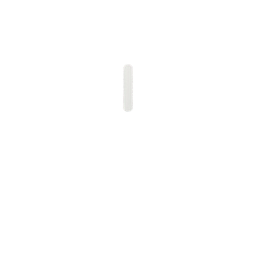
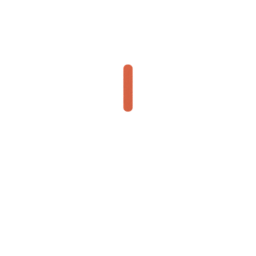
0012, 0013: orange pointers and paddle rims; GAIN dims under AUTO
The knobs' pointers and the toggle paddles' rims take the title stripe's
orange. GAIN dims while auto gain is on, mirroring DETECT and DECAY.

Changed region(s): [[0.4688, 0.25, 0.5312, 0.4375]]

diff --git a/art/beverley/blender/controls.py b/art/beverley/blender/controls.py
@@ -2,11 +2,12 @@
 `crates/beverley/beverley.svg`, in the style of a 1990s rack effects unit:
 
 - the knob: black moulded plastic, a fluted grip on a thin flange, a grey
-  cap with a white line. A cycled skin: `knob_pointer.png` (the line
+  cap with a line in the title stripe's orange. A cycled skin: `knob_pointer.png` (the line
   alone, at 12 o'clock), then `knob_body_N.png`, the rest turned evenly
   across one flute period (`FLUTE_PERIOD`);
 - the toggle: a flat grey plastic bat, fanning out from its pivot and
-  bevelled, in a black plastic boss. `toggle2_{0,1}.png` down and up;
+  bevelled, its rim painted the title stripe's orange, in a black
+  plastic boss. `toggle2_{0,1}.png` down and up;
   `toggle3_{0,1,2}.png` down, middle (seen end-on) and up;
 - the button: a grey key in a black bezel, with a red LED in the key.
   `button_0.png` off, `button_1.png` lit.
@@ -49,6 +50,8 @@ TOGGLE_SPAN = 2.6
 BUTTON_SPAN = 1.3
 # How far the bat leans from upright, either way.
 TOGGLE_TILT = 32.0
+# The title stripe's orange, #d9572b (faceplate.py's ACCENT), linear.
+ACCENT = (0.693, 0.0953, 0.0242)
 # An LED's red, linear.
 LED_RED = (1.0, 0.03, 0.01)
 
@@ -104,7 +107,7 @@ def build_knob():
     """The knob, 2 units across; the pointer last."""
     black = plastic("knob plastic", 0.018)
     cap = plastic("cap plastic", 0.09, roughness=0.35)
-    ink = studio.material("white ink", (0.85, 0.85, 0.82), roughness=0.5)
+    ink = studio.material("orange ink", ACCENT, roughness=0.5)
     parts = [
         studio.prism("flange", studio.circle(1.0), 0.0, 0.09, black, bevel=0.03),
         studio.prism("grip", studio.fluted(0.88, 0.055, FLUTES), 0.06, 0.6, black,
@@ -156,13 +159,47 @@ def fan(base, tip, length, round_tip=0.08, n=8):
     return pts
 
 
+def rimmed(m, rim_color):
+    """Paint the rim of a flat part made by `studio.prism`: its sides and
+    bevels take `rim_color`, its two broad faces (normal along the
+    object's Z) keep their own."""
+    nodes, links = m.node_tree.nodes, m.node_tree.links
+    bsdf = nodes["Principled BSDF"]
+    geometry = nodes.new("ShaderNodeNewGeometry")
+    to_object = nodes.new("ShaderNodeVectorTransform")
+    to_object.vector_type = "NORMAL"
+    to_object.convert_from = "WORLD"
+    to_object.convert_to = "OBJECT"
+    xyz = nodes.new("ShaderNodeSeparateXYZ")
+    facing = nodes.new("ShaderNodeMath")
+    facing.operation = "ABSOLUTE"
+    # Fully rim below 0.9 of the face's normal, fully face above 0.97: the
+    # paint's edge sits on the bevel, just short of the face.
+    edge = nodes.new("ShaderNodeMapRange")
+    edge.inputs["From Min"].default_value = 0.9
+    edge.inputs["From Max"].default_value = 0.97
+    edge.inputs["To Min"].default_value = 1.0
+    edge.inputs["To Max"].default_value = 0.0
+    mix = nodes.new("ShaderNodeMix")
+    mix.data_type = "RGBA"
+    mix.inputs["A"].default_value = bsdf.inputs["Base Color"].default_value[:]
+    mix.inputs["B"].default_value = (*rim_color, 1.0)
+    links.new(geometry.outputs["Normal"], to_object.inputs["Vector"])
+    links.new(to_object.outputs["Vector"], xyz.inputs["Vector"])
+    links.new(xyz.outputs["Z"], facing.inputs[0])
+    links.new(facing.outputs["Value"], edge.inputs["Value"])
+    links.new(edge.outputs["Result"], mix.inputs["Factor"])
+    links.new(mix.outputs["Result"], bsdf.inputs["Base Color"])
+    return m
+
+
 def build_toggle():
     """A plastic toggle: a rounded boss with a dark throat, and a flat bat
     that fans out from its pivot, wide across the panel and thin along
     its throw, its edges bevelled. Returns the parts and the pivot, which
     tilts the bat about X."""
     boss_m = plastic("toggle boss", 0.014, roughness=0.36)
-    bat_m = plastic("toggle bat", 0.24, roughness=0.36)
+    bat_m = rimmed(plastic("toggle bat", 0.24, roughness=0.36), ACCENT)
     throat_m = studio.material("throat", (0.004, 0.004, 0.005), roughness=0.8, specular=0.1)
     boss = studio.prism("boss", studio.rounded_rect(0.95, 1.25, 0.22), 0.0, 0.16, boss_m,
                         bevel=0.05, segments=4)

diff --git a/crates/beverley/src/lib.rs b/crates/beverley/src/lib.rs
@@ -89,10 +89,15 @@ fn auto_off(model: &Model) -> bool {
     model.get(AUTO_GAIN) < 0.5
 }
 
+fn auto_on(model: &Model) -> bool {
+    !auto_off(model)
+}
+
 /// The editor's long-lived state, bound to the engine through `link`.
 pub fn state(link: Box<dyn EngineLink>) -> EditorState {
     let controls = faceplate::Controls::<Box<dyn Binding>> {
-        gain: Box::new(ParamKnob::new(GAIN)),
+        // Fixed gain does nothing while auto gain sets it.
+        gain: Box::new(ParamKnob::new(GAIN).dimmed_when(&[AUTO_GAIN], auto_on)),
         auto_gain: Box::new(ParamToggle::new(AUTO_GAIN)),
         // Auto gain's detector and its DECAY do nothing with AUTO off.
         detect: Box::new(ParamToggle::new(DETECT).dimmed_when(&[AUTO_GAIN], auto_off)),

diff --git a/crates/beverley/tests/editor.rs b/crates/beverley/tests/editor.rs
@@ -77,9 +77,9 @@ fn hovering_shows_values_in_their_units() {
 }
 
 #[test]
-fn detect_and_decay_light_up_with_auto_gain() {
+fn auto_gain_lights_its_controls_and_dims_gain() {
     // At rest AUTO is off, so DETECT and DECAY are dimmed (initial_1x);
-    // switched on, they are drawn at full strength.
+    // switched on, they are drawn at full strength and GAIN is dimmed.
     let mut h = Harness::new(beverley::editor, 1.0);
     h.click(ids::AUTO_GAIN);
     assert_snapshot!(h, "auto_on_1x");

diff --git a/tickets/open/0017-murmuration-clarity.md b/tickets/open/0017-murmuration-clarity.md
@@ -9,27 +9,50 @@ depends: ["0015"]
 
 ## Summary
 
-Voices steer away from delays whose dry + voice comb notches, at
-(2k + 1) / 2d Hz, would land on strong peaks (ADR 0002, point 7). The
-steering is a force in the flock, so DETUNE's speed limit also limits
-how fast a voice moves under it.
+Voices are pushed away from delays whose dry + voice comb notches, at
+(2k + 1) / 2d Hz, would land near strong peaks (ADR 0002, point 7). The
+push is a force in the flock, so DETUNE's speed limit also limits how fast
+a voice moves under it.
+
+Three rules from the ADR apply:
+- the term only repels, and only at short range, so a voice never parks
+- each peak's push scales with its strength
+- the term is gated by how sparse the band is, so it fades out on dense
+  polyphony and noise
 
 ## Acceptance criteria
 
-- [ ] A notch-cost term per voice, summing over peaks weighted by
-      strength and by each peak's distance from the nearest notch, with
-      its gradient in d added to the voice's steering with weight CLARITY.
-- [ ] The cost is computed on the flock tick from the latest peak set, at
+- [ ] A repel-only term per voice: for each peak within a stated range of
+      one of the voice's notches, a push in d away from that alignment,
+      scaled by the peak's strength. Zero beyond the range, and no
+      attraction anywhere.
+- [ ] A sparseness gate per band: either the peak set's share of band
+      energy or one minus spectral flatness, chosen by measurement and
+      smoothed so the gate doesn't flicker. Effective weight =
+      CLARITY × gate.
+- [ ] The term is computed on the flock tick from the latest peak set, at
       a bounded cost (stated, and measured with 8 voices and 8 peaks).
-- [ ] Measurement, recorded in the close-out:
-      - test signals: a sustained chord and a sustained harmonic tone
-        (stated frequencies)
-      - with CLARITY at 0 and at full, measure the time-averaged loss in
-        level at each partial in the mono-summed output
-      - target: at full CLARITY the worst partial loses at least half as
-        many dB as at 0
+- [ ] Measurement, recorded in the close-out, using these test signals at
+      stated frequencies:
+      - a sustained harmonic tone (sparse)
+      - a sustained clean four-note chord
+      - a distorted-guitar chord (dense)
+
+      Measure at CLARITY 0 and at full:
+      - time-averaged level loss at each strong partial in the
+        mono-summed output. Target on the sparse tone: at full CLARITY
+        the worst partial loses at most half as many dB as at 0.
+      - the gate's mean value. Target on the dense chord: near zero
+        (bound stated).
+      - RMS delay velocity across voices (motion). Target: at full
+        CLARITY it is at least 80 % of its value at 0 on every signal, so
+        no voice parks.
 - [ ] Tests:
       - no voice's detune exceeds DETUNE with CLARITY at full
+      - on a sustained tone at full CLARITY, every voice's delay keeps
+        moving: no voice stays within a small window for longer than a
+        stated time
+      - on white noise the gate stays below its dense-material bound
       - with CLARITY at 0 the output is bit-identical to the output
         without the term
       - no allocation

diff --git a/adrs/0002-murmuration.md b/adrs/0002-murmuration.md
@@ -98,11 +98,26 @@ Murmuration addresses each of these, and stays a zero-latency effect.
      turns it off.
    - **Clarity.** Strong spectral peaks in MID and HIGH add a term to the
      flock's steering. For a voice at delay d, the dry + voice comb has
-     notches at (2k + 1) / 2d Hz. The term pushes each voice away from
-     delays whose notches land on strong peaks, weighted by peak strength.
+     notches at (2k + 1) / 2d Hz. Three rules shape the term:
+     - *Repel only.* A peak pushes a voice away only while one of the
+       voice's notches lies within a short range of it. Beyond that range
+       the term is zero. There is no pull towards notch-free delays, so a
+       voice never has a valley to settle in. A voice that stopped moving
+       would leave a fixed comb, which is a static filter and no chorus.
+     - *Weighted by strength.* Each peak's push scales with its strength,
+       so on a chord the strongest partials, usually the fundamentals and
+       low harmonics, get most of the protection.
+     - *Gated by sparseness.* The term's overall weight is CLARITY times
+       how peaky the band is: the share of the band's energy in its peak
+       set, or one minus its spectral flatness, chosen in the ticket.
+       On dense polyphony or noise the gate closes, and the flock moves
+       freely. Comb notches are most audible on sparse, sustained tones
+       and are masked on dense material, so Clarity acts where it matters
+       and backs off where it can't help.
+
      Because the push goes through the flock's dynamics, the detune speed
      limit also limits how fast a voice can be pushed, so steering adds no
-     pitch glitches of its own. CLARITY sets the weight.
+     pitch glitches of its own.
    - **Auto width.** Inter-channel coherence of the input, per band,
      smoothed over about 300 ms. Bands that are already wide get less pan
      spread; narrow bands get the full WIDTH. A guard limits the drop in

diff --git a/tickets/closed/0013-beverley-rendered-faceplate.md b/tickets/closed/0013-beverley-rendered-faceplate.md
@@ -71,3 +71,7 @@ washer. It was replaced by the plastic paddle above, which suits the
 panel better. Black on black didn't read from above, so the bat is grey.
 It is a little darker thrown up than down: its visible face then turns
 away from the key light.
+
+Then the bats' rims (sides and bevels, by the normal in object space) and
+the knobs' pointers were painted the title stripe's orange, #d9572b,
+which `controls.py` holds as `ACCENT` alongside `faceplate.py`'s.

diff --git a/tickets/closed/0012-beverley-auto-gain-detectors.md b/tickets/closed/0012-beverley-auto-gain-detectors.md
@@ -82,3 +82,8 @@ With AUTO GAIN off, neither applies: DECAY and DETECT dim.
 - Behaviour to know: RANGE starts at rest at 0, so an input with an
   offset takes a few DECAY times to settle on its swing. Between peaks
   the range sags by DECAY's rate, and the crushed output's height with it.
+
+## Follow-up (2026-11-24)
+
+GAIN dims while AUTO is on, as DETECT and DECAY dim while it is off:
+fixed gain does nothing while auto gain sets it. `auto_on_1x` shows it.
